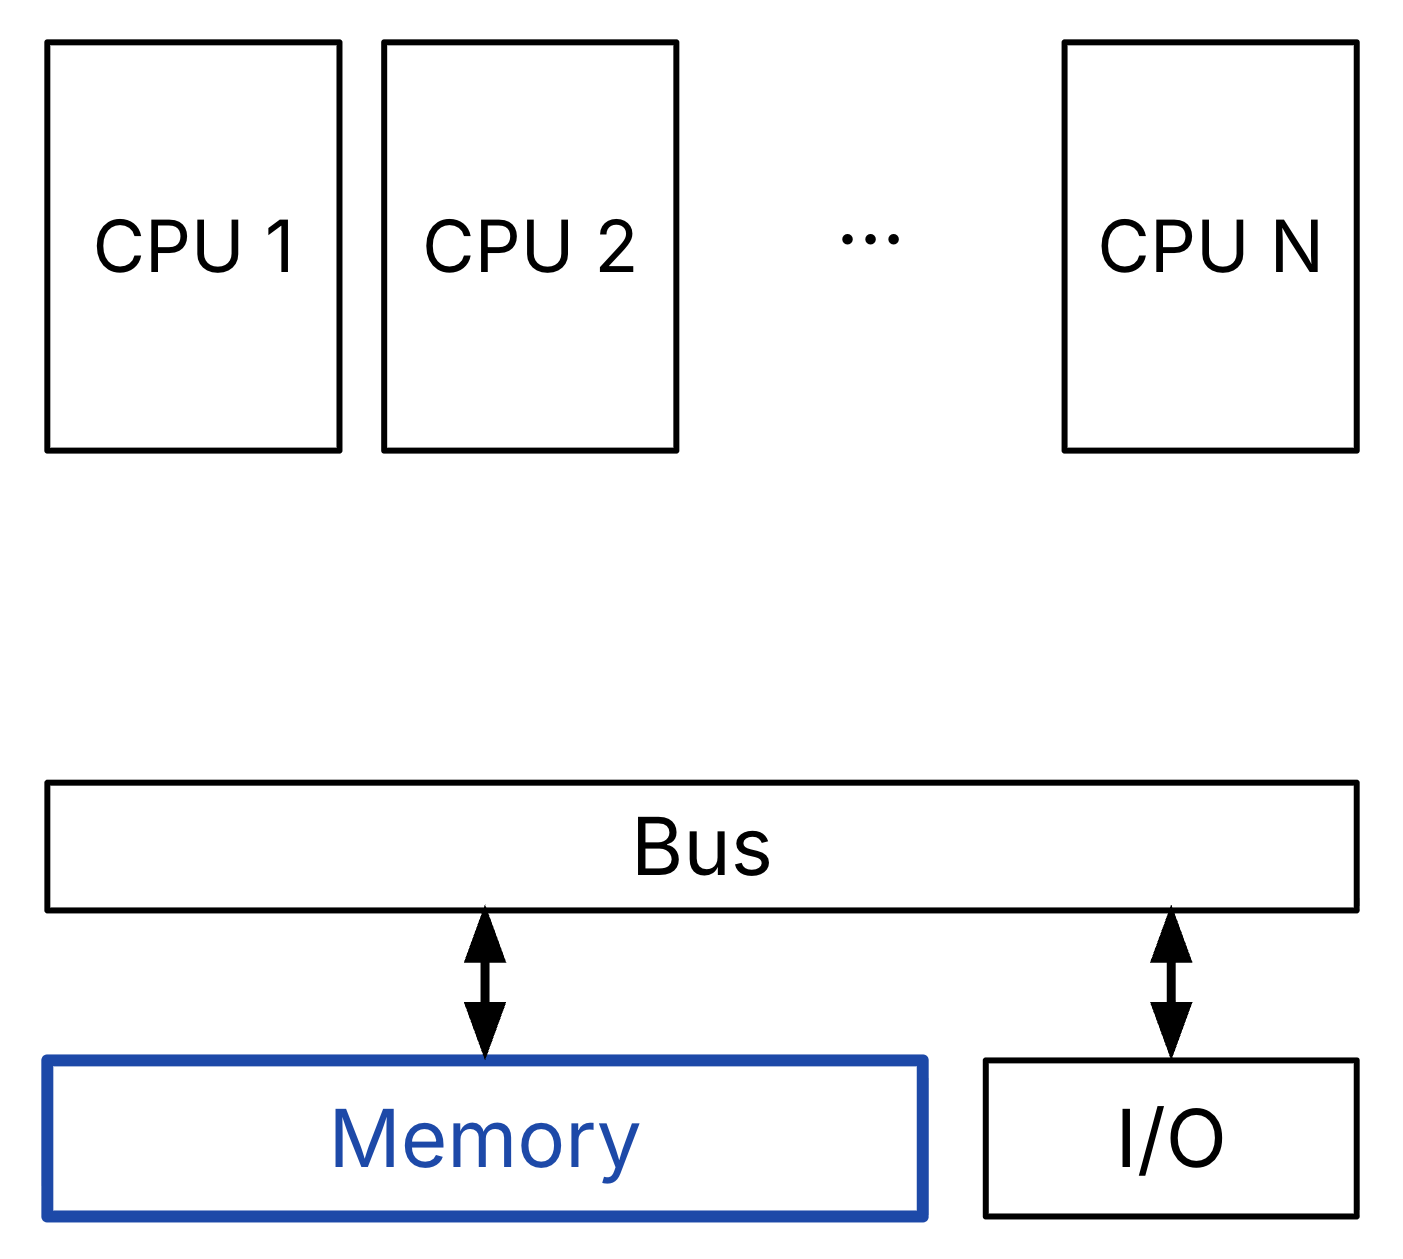
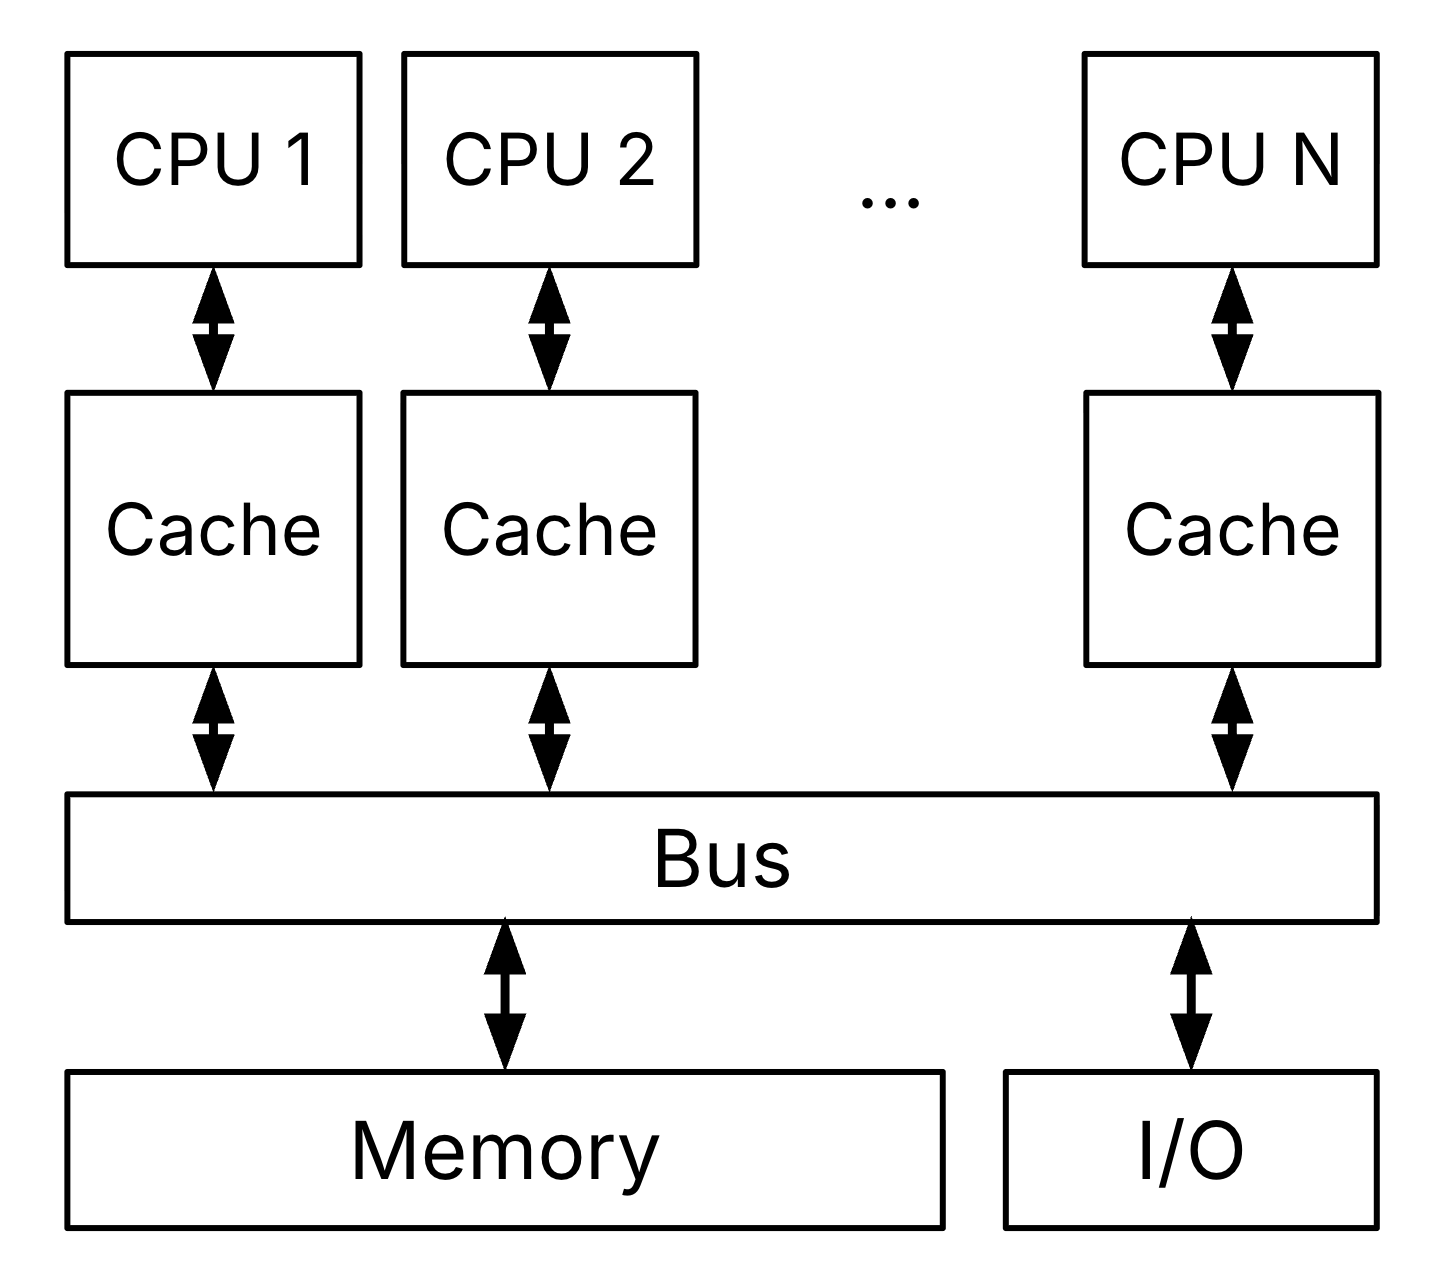
feat(lec34): cache coherence (#95)

Changed region(s): [[0.0306, 0.031, 0.9808, 0.9913], [0.613, 0.1549, 0.6436, 0.2168]]

diff --git a/content/parallel-tlp/cache-coherency.md b/content/parallel-tlp/cache-coherency.md
@@ -1,13 +1,12 @@
 ---
-title: "Cache Coherency"
-subtitle: Coming soon. Thanks for your patience!
+title: "Cache Coherence"
 ---
 
 (sec-cache-coherency)=
 ## Learning Outcomes
 
-<!-- * TODO
-* TODO -->
+* Illustrate a shared memory multiprocessor architecture with caches.
+* Define cache coherence misses.
 
 ::::{note} 🎥 Lecture Video
 :class: dropdown
@@ -39,52 +38,119 @@ subtitle: Coming soon. Thanks for your patience!
 
 ::::
 
-<!-- ## Visuals
+## Shared memory multiprocessor (SMP)
+
+Recall that in our [multicore processor architecture](#sec-mimd) we assume a shared memory model to enable multithreaded processing. This model is called a **shared memory multiprocessor** (SMP), which assume a single physical address space across all processors.[^sap]
+
+[^sap]: Given the shared address space, a more accurate term for shared memory multiprocessor might be shared-_address_ multiprocessor. You may also see the term symmetric multiprocessor, but we digress.
+
+Given our understanding of the [memory hierarchy](#fig-3-memory-hierarchy) and Jim Gray's space-time analogy of [locality](#fig-3-locality), memory is a performance bottleneck even with one processor. Shared memory multiprocessors use caches to reduce bandwidths on main memory, as shown in @fig-smp.
 
 :::{figure} images/smp.png
 :label: fig-smp
 :width: 65%
-:alt: "Symmetric multiprocessing diagram: several cores or sockets connect through an interconnect or crossbar to a unified physical memory and optionally a shared last-level cache. Coherence control blocks or snoop filters appear on the path to show one address space visible to all processors."
+:alt: "Shared memory multiprocessor diagram: several cores or sockets connect through a bus to a unified physical memory and optionally a shared last-level cache. One physical address space visible to all processors."
 
 Shared-memory Multiprocessor (SMP) with multiple cores and a single, coherent memory.
 :::
 
-:::{figure} images/smp.png
-:label: fig-smp
-:width: 65%
-:alt: "Symmetric multiprocessing diagram: several cores or sockets connect through an interconnect or crossbar to a unified physical memory and optionally a shared last-level cache. Coherence control blocks or snoop filters appear on the path to show one address space visible to all processors."
+Notes about @fig-smp:
 
-Shared-memory Multiprocessor (SMP) with multiple cores and a single, coherent memory.
+* Each CPU has its own cache(s), e.g., an L1 cache.
+* All CPUs communicate with each other and memory through a communication **bus**.
+* One bank of memory (DRAM) is shared by all CPUs.
+
+## Cache Coherence Problem
+
+In a [different section](#sec-locks), we discuss how threads running on multiple processors can use locks to synchronize access to shared data across processors. In this section, we discuss an additional problem that arises when we introduce caching: **cache coherence**.
+
+Consider three example memory accesses on a dual-core system. Assume the word `20` is initially in memory @ address `0x5000` , and we perform three memory accesses:
+
+1. CPU 1 **reads** word @ address `0x5000`.
+1. CPU 2 **reads** word @ address `0x5000`.
+1. CPU 1 **writes** word `40` @ address `0x5000`
+
+@fig-cache-coherence-1 shows that accesses 1 and 2, which are reads, trigger compulsory cache misses in both CPU 1's and CPU 2's caches. The two caches must request the corresponding block from memory, via the communication bus. Each processor gets a copy of this block (and therefore a copy of the word @ address `0x5000`) and stores the block on their own cache.
+
+CPU 2 reads Mem[0x5000]
+:::{figure} images/cache-coherence-1.png
+:label: fig-cache-coherence-1
+:width: 70%
+:alt: "Visual description of a dual-core SMP system. The SMP system diagram illustrates several cores or sockets connect through a shared bus to a unified physical memory and to I/O. There are four directed arrows between each CPU's cache and the shared memory unit to show the bus access for the two memory accesses: (1) CPU 1 **reads** word @ address `0x5000`, and (2) CPU 2 **reads** word @ address `0x5000`. One set of arrows is labeled request (cache via bus to memory); the other set is labeled response (memory via bus to cache). CPU Each CPU cache has a copy of the word `20` at memory address `0x5000`.
+
+CPU 1 and CPU 2 both read a word @ address `0x5000`. If both caches are cold, these two memory accesses are compulsory cache misses, and the value must be retrieved from shared memory via the shared bus.
 :::
 
-:::{figure} images/multiprocessor-cache.png
-:label: fig-mp-cache
-:width: 65%
-:alt: "Multiprocessor memory system where each CPU has private caches that satisfy most loads locally, cutting traffic on the shared bus or interconnect to DRAM. Read and write arrows show hits staying on-chip while misses escalate to memory."
+The issue is revealed with @fig-cache-coherence-2, which illustrates access 3, which is a write. When CPU 1 performed a write, CPU 1’s cache was up-to-date, but CPU 2’s cache is now stale, and it doesn’t know.
 
-Multi-processor Cache to reduce bandwidth demands on main memory.
+:::{figure} images/cache-coherence-2.png
+:label: fig-cache-coherence-2
+:width: 70%
+:alt: "Dual-core SMP system, continued. Next, CPU 1 performs a memory write to word `40` @ address `0x5000`. Now, CPU 1's cache has a copy of the word `40` at memory address `0x5000`, but CPU 2's cache still has the word `20` at memory address `0x5000`."
+
+CPU 1 performs a memory write to word `40` @ address `0x5000`. In a non-cache coherent system, CPU 1 and CPU 2 now have different copies of the same region of memory.
 :::
 
-:::{figure} images/cache-incoherence-read-write.png
-:label: fig-cache-inco-read-write
-:width: 65%
-:alt: "Two-processor diagram with separate private caches referencing the same memory address but holding different values after unsynchronized writes. Directed arrows show each CPU’s read and write paths without a coherence protocol reconciling the copies, leading to inconsistent global memory order."
+The last access in our example illustrates that this system is **not cache coherent**. From [Wikipedia](https://en.wikipedia.org/wiki/Cache_coherence):
 
-Read/write flow of incoherent caches between two processors.
+> In a cache coherent system, if multiple clients have a cached copy of the same region of a shared memory resource, all copies are the same.
+
+P&H defines cache coherence as the aspect that defines _what values_ can be returned by a read. There must be a way of enforcing the "coherency" implied by the phrase: "all copies are the same." We do so using an additional type of cache miss.
+
+## Coherence Miss
+
+:::{note} Review [cache misses](#sec-cache-misses)
+
+So far, we have discussed three types of cache misses: compulsory miss, capacity miss, and conflict miss.
 :::
 
-:::{figure} images/cache-incoherence-result.png
-:label: fig-cache-inco-result
-:width: 65%
-:alt: "Outcome table illustrating values observed by each processor after conflicting writes when caches are incoherent: possible stale reads, divergent copies per core, and lack of a single serial order unless software flushes or barriers are used."
+To enforce cache coherence, we introduce a _fourth_ type of cache miss: a **coherence miss**, e.g., a communication miss caused by writes to shared data made by other processors.
 
-Read/write result with cache incoherence.
+Such misses are commonly part of **cache coherence protocols**, which are means of maintaining coherence for multiple processors. For example, a protocol can ensure that a processor has "exclusive access" to a data item by invalidating copies in other caches on a write. Subsequently, a processor that reads (or writes) to an invalidated copy then misses in the cache; this miss is categorized as a coherence miss.
+
+## Snooping Protocols
+
+:::{warning} This section is out of scope
+
+For more information, read P&H 5.10.
+
 :::
 
-:::{figure} images/moesi.png
-:label: fig-moesi
-:width: 90%
-:alt: "Message-flow diagram for the MOESI protocol showing cache line states Modified, Owned, Exclusive, Shared, and Invalid, with labeled transitions for read misses, write hits, invalidations, and write-backs between processors and memory."
+One version of the _write invalidate_ cache coherence protocol described above is a **snooping protocol**. When any processor accesses memory, use the bus to "snoop"[^snoop] and notify other processors.
 
-MOESI Cache Protocol.
-::: -->
+[^snoop]: From [Merriam-Webster](https://www.merriam-webster.com/dictionary/snoop): to look or pry especially in a sneaking or meddlesome manner.
+
+Each cache controller “snoops” for write transactions on the common bus.
+On another processor's block request to the bus, check if one's own cache has a copy.
+
+* If a copy exists, and the request is a read, do nothing.
+* If a copy exists and the request is a write, then invalidate one's own cache's copy.
+* If a copy does not exist, do nothing.
+
+This snooping protocol permits many processors to have copies of data that are only read, and permits a processor that is writing to have an exclusive copy of the data (because other copies are invalidated).
+
+### Details
+
+:::{warning} This section is really out of scope
+
+For more information, take an advanced computer architecture course.
+
+:::
+
+**MOESI** is a full cache coherence protocol that describes the states in other cache protocols: Modified Owned Exclusive Shared Invalid.
+
+For each block in a cache, track state:
+
+* **Shared**:  up-to-date data, other caches may have a copy
+* **Modified**: up-to-date data, changed (dirty), no other cache has a copy, OK to write, memory out-of-date (i.e., write back)
+* **Invalid**: not in cache (from before: valid flag)
+
+Two enhancements:
+
+* **Exclusive**: up-to-date data, no other cache has a copy, OK to write, memory up-to-date. Avoids writing to memory if block replaced, and supplies data on read instead of going to memory.
+
+* **Owner**:  up-to-date data, other caches may have a copy (they must be in Shared state). This cache is one of several with a valid copy of the cache line, but has the exclusive right to make changes to it. It must broadcast those changes to all other caches sharing the line. The introduction of owned state allows dirty sharing of data, i.e., a modified cache block can be moved around various caches without updating main memory. The cache line may be changed to the Modified state after invalidating all shared copies, or changed to the Shared state by writing the modifications back to main memory. Owned cache lines must respond to a snoop request with data.
+
+UC Berkeley has explored various snooping[^snoopy] protocols; see an advanced computer architecture course for more information.
+
+[^snoopy]: Sometimes you will see snooping protocols called Snoopy Protocols and snooping buses called Snoopy Buses, like the [Peanuts](https://en.wikipedia.org/wiki/Peanuts) character. [source](https://people.eecs.berkeley.edu/~pattrsn/252F96/Lecture18.pdf)

diff --git a/content/datapath/load-store.md b/content/datapath/load-store.md
@@ -31,22 +31,14 @@ title: "Supporting Loads and Stores"
 
 ## Building a Processor with DMEM access
 
-Recall that [load](#sec-load-word) instructions are [I-Type](#sec-rv-load) because they read a register, have an immediate, and write to a register a 32-bit value read from memory.
-
-To support `lw`, we use a similar datapath to `addi` but instead compute an address with which to access DMEM.
-
-* RegFile: We **read** _one_ register `rs1` and write one register `rd`. The value to write is a **word** read from memory.
-* PC: We **read** from and **write** to PC. The value to write is `pc + 4`.
-* DMEM: We **read** the memory word at address `R[rs1] + imm`.
-
-Loads (and stores) participate in the `MEM` phase of [the five step process](#sec-five-steps). We therefore introduce additional logic connecting DMEM to the ALU and the RegFile, as shown in @fig-lw-new-blocks.
+Loads and stores participate in the `MEM` phase of [the five step process](#sec-five-steps). We therefore introduce additional logic connecting DMEM to the ALU and the RegFile. @fig-lw-new-blocks describes DMEM access for load instructions.
 
 ::::{figure} images/lw-new-blocks.png
 :label: fig-lw-new-blocks
 :width: 100%
 :alt: "Load datapath additions: DMEM connected to the ALU-computed address and a writeback mux selecting between ALU result and memory data."
 
-DMEM: Connect and use a mux before `WB` (Write Back) phase.
+For the `MEM` phase of a load instruction, conect DMEM to the ALU and use a mux before `WB` (Write Back) phase.
 ::::
 
 **DMEM**: To read the memory at an address, we use the ALU to compute the address as `alu = R[rs1] + imm`. This  readily reuses the circuitry for arithmetic and logical I-Type instructions.
@@ -64,6 +56,17 @@ DMEM: Connect and use a mux before `WB` (Write Back) phase.
 :::
 The `lw` datapath. Use the menu bar to trace through the animation or download a copy of the PDF/PPTX file. 
 :::: -->
+
+(sec-datapath-load)=
+## Tracing the Load Datapath
+
+Recall that [load](#sec-load-word) instructions are [I-Type](#sec-rv-load) because they read a register, have an immediate, and write to a register a 32-bit value read from memory. 
+
+For `lw`, we use a similar datapath to `addi`, but we use the ALU to compute an address to pass into DMEM. State updates:
+
+* RegFile: We **read** _one_ register `rs1` and write one register `rd`. The value to write is a **word** (again, `lw`) that is read from memory.
+* PC: We **read** from and **write** to PC. The value to write is `pc + 4`.
+* DMEM: We **read** the memory word at address `R[rs1] + imm`.
 
 ::::{figure}
 :label: anim-datapath-lw
@@ -104,15 +107,6 @@ We **do not** need to add additional blocks for stores, but we will need to:
 
 * Upgrade the Immediate Generator to support immediates in S-Type instructions; we encourage you to read [that section](#sec-datapath-immgen) afterwards.
 * Wire `R[rs2]` to `wdata` (DMEM input signal).
-
-<!-- ::::{figure}
-:label: anim-datapath-sw
-:::{iframe} https://view.officeapps.live.com/op/embed.aspx?src=https://github.com/61c-teach/course-notes/raw/refs/heads/main/content/datapath/pptx/datapath-store.pptx
-:width: 100%
-:title: "Slides tracing through the `sw` Datapath."
-:::
-The `sw` datapath. Use the menu bar to trace through the animation or download a copy of the PDF/PPTX file.
-:::: -->
 
 ::::{figure}
 :label: anim-datapath-sw

diff --git a/content/parallel-tlp/index.md b/content/parallel-tlp/index.md
@@ -2,6 +2,7 @@
 title: "MIMD Architectures"
 ---
 
+(sec-mimd)=
 ## Learning Outcomes
 
 * Identify the key components of a multicore processor: cores that execute streams of instructions independently but share memory.
